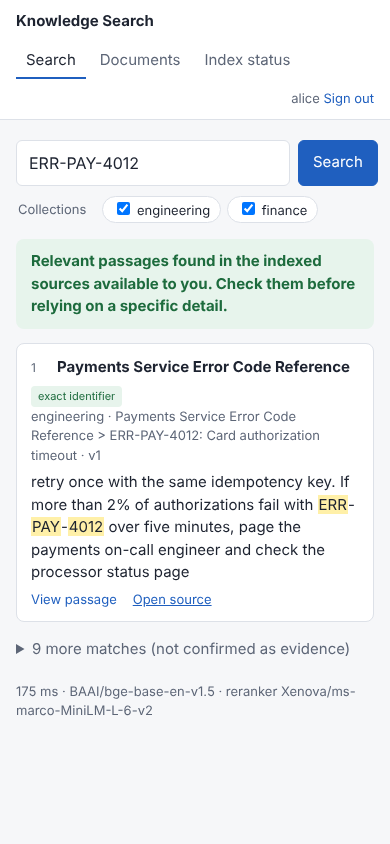
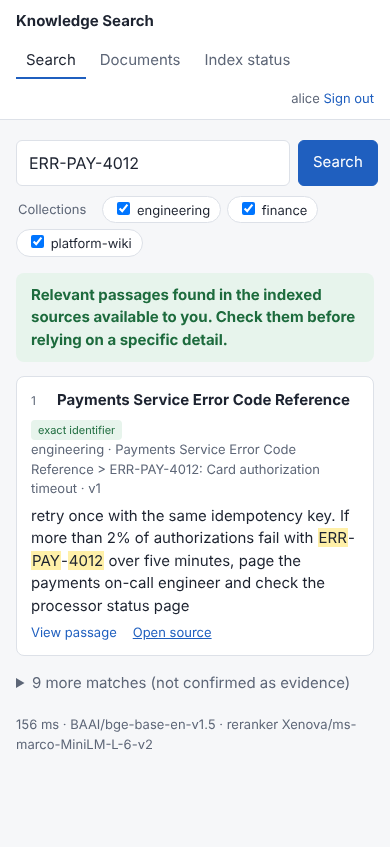
Show document connections in the UI; add a linked demo wiki
The passage drawer gains a Connections panel: links from this document,
documents linking here (grouped per document), and a two-hop blast radius,
each clickable. A small fictional platform wiki (orders, payments, ledger,
checkout workflow with depends_on/part_of/related links and cross-collection
links) is loaded by 'demo' and the tests; the fixture evaluation excludes it
so published numbers stay comparable. The UI walkthrough now follows a link
and saves screenshots 10-11.

Claude-Session: https://claude.ai/code/session_01CZrTR7byuWxCG3D2Fw3pFJ

diff --git a/src/knowledge_search/static/app.js b/src/knowledge_search/static/app.js
@@ -163,6 +163,36 @@ async function openPassage(id) {
   $("#d-uri").textContent = p.source_uri ? "Recorded location: " + p.source_uri : "";
   $("#drawer").hidden = false;
   $("#d-body .hit")?.scrollIntoView({ block: "center" });
+  renderLinks(p.document_id);
+}
+
+const KIND = { links_to: "links to", depends_on: "depends on", related: "related", calls: "calls",
+  owned_by: "owned by", part_of: "part of", see_also: "see also" };
+
+async function renderLinks(docId) {
+  const box = $("#d-links");
+  box.hidden = true; box.replaceChildren();
+  const [links, imp] = await Promise.all([api(`/api/documents/${docId}/links`), api(`/api/documents/${docId}/impact?depth=2`)])
+    .catch(() => [null, null]);
+  if (!links) return;
+  const item = (title, meta, chunkId) => {
+    const b = el("button", { className: "link", textContent: title });
+    if (chunkId) b.addEventListener("click", () => openPassage(chunkId));
+    return el("li", {}, b, el("span", { className: "meta", textContent: " " + meta }));
+  };
+  const section = (heading, items) => items.length && box.append(el("h4", { textContent: heading }), el("ul", {}, ...items));
+  section("Links from this document", links.outgoing.map((o) => item(o.title, `${KIND[o.kind] || o.kind}${o.anchor ? " #" + o.anchor : ""} · ${o.collection}`, o.chunk_id)));
+  const byDoc = new Map();  // one line per linking document, listing all its link kinds
+  for (const i of links.incoming) {
+    const g = byDoc.get(i.document_id) || { ...i, kinds: [] };
+    g.kinds.push(KIND[i.kind] || i.kind); byDoc.set(i.document_id, g);
+  }
+  section("Linked from", [...byDoc.values()].map((g) => item(g.title, `${g.kinds.join(", ")} this · ${g.collection}`, g.chunk_id)));
+  section("Depends on this (blast radius, 2 hops)", imp.nodes.map((n) => item(n.title, `${n.depth === 1 ? "directly" : "indirectly"} · ${KIND[n.kind] || n.kind} · ${n.collection}`, n.chunk_id)));
+  if (links.unresolved.length)
+    box.append(el("p", { className: "meta", textContent: "Not found in documents you can access: " + links.unresolved.map((u) => u.label || u.target).join(", ") }));
+  box.hidden = !box.childElementCount;
+  if (!box.hidden) box.prepend(el("h3", { textContent: "Connections" }));
 }
 $("#d-close").addEventListener("click", () => { $("#drawer").hidden = true; });
 

diff --git a/src/knowledge_search/static/app.css b/src/knowledge_search/static/app.css
@@ -108,3 +108,8 @@ button.secondary { background: var(--panel); color: var(--accent); }
 .spinner { display: inline-block; width: 12px; height: 12px; border: 2px solid var(--line); border-top-color: var(--accent); border-radius: 50%; animation: spin .8s linear infinite; vertical-align: -1px; }
 @keyframes spin { to { transform: rotate(360deg); } }
 @media (prefers-reduced-motion: reduce) { .spinner, .progress.indeterminate span { animation: none; } }
+
+.drawer-links { border-top: 1px solid var(--line); padding: 8px 16px; max-height: 40vh; overflow: auto; font-size: 14px; }
+.drawer-links h3 { font-size: 14px; margin: 4px 0; }
+.drawer-links h4 { font-size: 12px; color: var(--muted); margin: 10px 0 4px; text-transform: uppercase; letter-spacing: .03em; }
+.drawer-links ul { list-style: none; margin: 0; padding: 0; display: grid; gap: 3px; }

diff --git a/src/knowledge_search/static/index.html b/src/knowledge_search/static/index.html
@@ -178,6 +178,7 @@
         <button id="d-close" class="link" aria-label="Close passage">Close</button>
       </div>
       <div id="d-body" class="drawer-body"></div>
+      <div id="d-links" class="drawer-links" hidden></div>
       <div class="drawer-foot"><a id="d-open" target="_blank" rel="noopener">Open original source</a> <span id="d-uri" class="meta"></span></div>
     </aside>
   </div>

diff --git a/src/knowledge_search/cli.py b/src/knowledge_search/cli.py
@@ -148,7 +148,8 @@ def _demo(s) -> None:
     if not corpus.is_dir():
         sys.exit(f"sample corpus not found at {corpus} (run from a source checkout)")
     with _conn() as c:
-        for col, groups in {"engineering": ["staff", "hr"], "finance": ["staff", "hr"], "hr": ["hr"]}.items():
+        for col, groups in {"engineering": ["staff", "hr"], "finance": ["staff", "hr"], "hr": ["hr"],
+                            "platform-wiki": ["staff", "hr"]}.items():
             for g in groups:
                 auth.grant(c, col, g)
         auth.grant(c, "engineering", "eng-writers", can_write=True)
@@ -157,7 +158,7 @@ def _demo(s) -> None:
                 auth.create_user(c, u, f"demo-password-{u}")
             for g in groups:
                 auth.add_user_to_group(c, u, g)
-    for col in ("engineering", "finance", "hr"):
+    for col in ("engineering", "finance", "hr", "platform-wiki"):
         _ingest(argparse.Namespace(collection=col, path=corpus / col, wait=True), s)
     print("\nDemo users (password = demo-password-<name>): alice (engineering+finance, can upload), "
           "bob (read-only), hannah (also sees the confidential 'hr' collection)")

diff --git a/scripts/ui_check.py b/scripts/ui_check.py
@@ -135,6 +135,16 @@ with sync_playwright() as p:
     shot("05-passage")
     pg.click("#d-close")
     run("how do I undo a bad release of the orders service", "06-conceptual")
+    # graph navigation: connections of the Ledger Service wiki page
+    run("ledger service schema changes", "10-graph-search")
+    pg.locator("#results li, #weak-results li").filter(has_text="Ledger Service").first.locator("text=View passage").click()
+    pg.wait_for_selector("#d-links h3")
+    print("connections:", [x.replace("\n", " ") for x in pg.locator("#d-links h4, #d-links li").all_inner_texts()])
+    shot("11-connections")
+    pg.locator("#d-links li button", has_text="Checkout Workflow").first.click()
+    pg.wait_for_selector("#d-title:has-text('Checkout Workflow')")
+    print("followed link to:", pg.inner_text("#d-title"))
+    pg.click("#d-close")
     run("per diem for domestic travel", "07-conflict")
     run("who won the company football tournament", "08-no-evidence")
     pg.set_viewport_size({"width": 390, "height": 844})

diff --git a/eval/run_eval.py b/eval/run_eval.py
@@ -89,7 +89,7 @@ def main():
         runtime.save(c, runtime.validate({"embed_model": a.model, "rerank_enabled": bool(a.reranker),
                                           "fusion_lexical_weight": a.lexical_weight,
                                           **({"rerank_model": a.reranker} if a.reranker else {})}), None)
-        for col in sorted(CORPUS.iterdir()):
+        for col in sorted(d for d in CORPUS.iterdir() if d.name != "platform-wiki"):  # wiki: graph demo only
             cid = auth.ensure_collection(c, col.name)
             for f in sorted(col.iterdir()):
                 submit(c, blobs, collection_id=cid, filename=f.name, data=f.read_bytes(), user_id=None,

diff --git a/tests/conftest.py b/tests/conftest.py
@@ -43,7 +43,8 @@ def database(tmp_path_factory):
         c.row_factory = dict_row
         for u, admin in [("alice", False), ("bob", False), ("hannah", False), ("sam", False), ("root", True)]:
             auth.create_user(c, u, PASSWORD, admin)
-        for col, groups in {"engineering": ["staff", "hr"], "finance": ["staff", "hr"], "hr": ["hr"]}.items():
+        for col, groups in {"engineering": ["staff", "hr"], "finance": ["staff", "hr"], "hr": ["hr"],
+                            "platform-wiki": ["staff", "hr"]}.items():
             for g in groups:
                 auth.grant(c, col, g)
         auth.grant(c, "engineering", "eng-writers", can_write=True)

diff --git a/tests/test_search.py b/tests/test_search.py
@@ -142,4 +142,4 @@ def test_search_makes_no_outbound_network_calls(client, corpus, monkeypatch):
     monkeypatch.setattr(socket, "create_connection", blocked)
     monkeypatch.setattr(socket.socket, "connect", blocked)
     res = search(client, token(client, "alice"), "how do I roll back the orders service")
-    assert res["results"][0]["title"] == "Orders Service Deployment Runbook"
+    assert "Orders Service Deployment Runbook" in [r["title"] for r in res["results"][:3]]

diff --git a/fixtures/README.md b/fixtures/README.md
@@ -10,6 +10,7 @@ Collections and intended permissions (as set up by `eval/run_eval.py` and the te
 | `engineering` | `staff`, `hr`      | runbooks, API reference, error codes, postmortem (PDF), config |
 | `finance`     | `staff`, `hr`      | expense policy 2024 and 2025 (deliberately conflicting), refund policy |
 | `hr`          | `hr` only          | confidential HR policies (parental leave, compensation bands) |
+| `platform-wiki` | `staff`, `hr`    | small interlinked service wiki (links, `depends_on`, `part_of`) for graph navigation |
 
 Deliberate traps: conflicting versions (`expense-policy-2024.md` vs `expense-policy-2025.md`),
 near-miss subjects (software refunds vs hardware, payments on-call vs data-platform on-call),

diff --git a/fixtures/corpus/platform-wiki/orders-service.md b/fixtures/corpus/platform-wiki/orders-service.md
@@ -1,0 +1,13 @@
+---
+title: Orders Service
+depends_on: [payments-service, ledger-service]
+part_of: checkout-workflow
+---
+# Orders Service
+
+`orders-svc` accepts orders from the storefront and reserves stock. It calls the
+[[Payments Service]] to authorize cards and writes order totals to the [[Ledger Service]].
+
+## Operations
+
+Deployments and rollbacks follow the [Orders deployment runbook](orders-deploy-runbook.md#rollback).

diff --git a/fixtures/corpus/platform-wiki/payments-service.md b/fixtures/corpus/platform-wiki/payments-service.md
@@ -1,0 +1,10 @@
+---
+title: Payments Service
+depends_on: [ledger-service]
+part_of: checkout-workflow
+---
+# Payments Service
+
+`payments-svc` authorizes card payments with the external card processor and records every
+authorization in the [[Ledger Service]]. Error codes are listed in the
+[payments error code reference](payments-error-codes.md).

diff --git a/fixtures/corpus/platform-wiki/ledger-service.md b/fixtures/corpus/platform-wiki/ledger-service.md
@@ -1,0 +1,11 @@
+---
+title: Ledger Service
+---
+# Ledger Service
+
+The ledger consumer writes double-entry records for every payment and order. Retry and batch
+settings are documented in the [ledger configuration notes](ledger-config.txt).
+
+## Schema changes
+
+Schema changes to the ledger tables affect every service that writes to the ledger.
